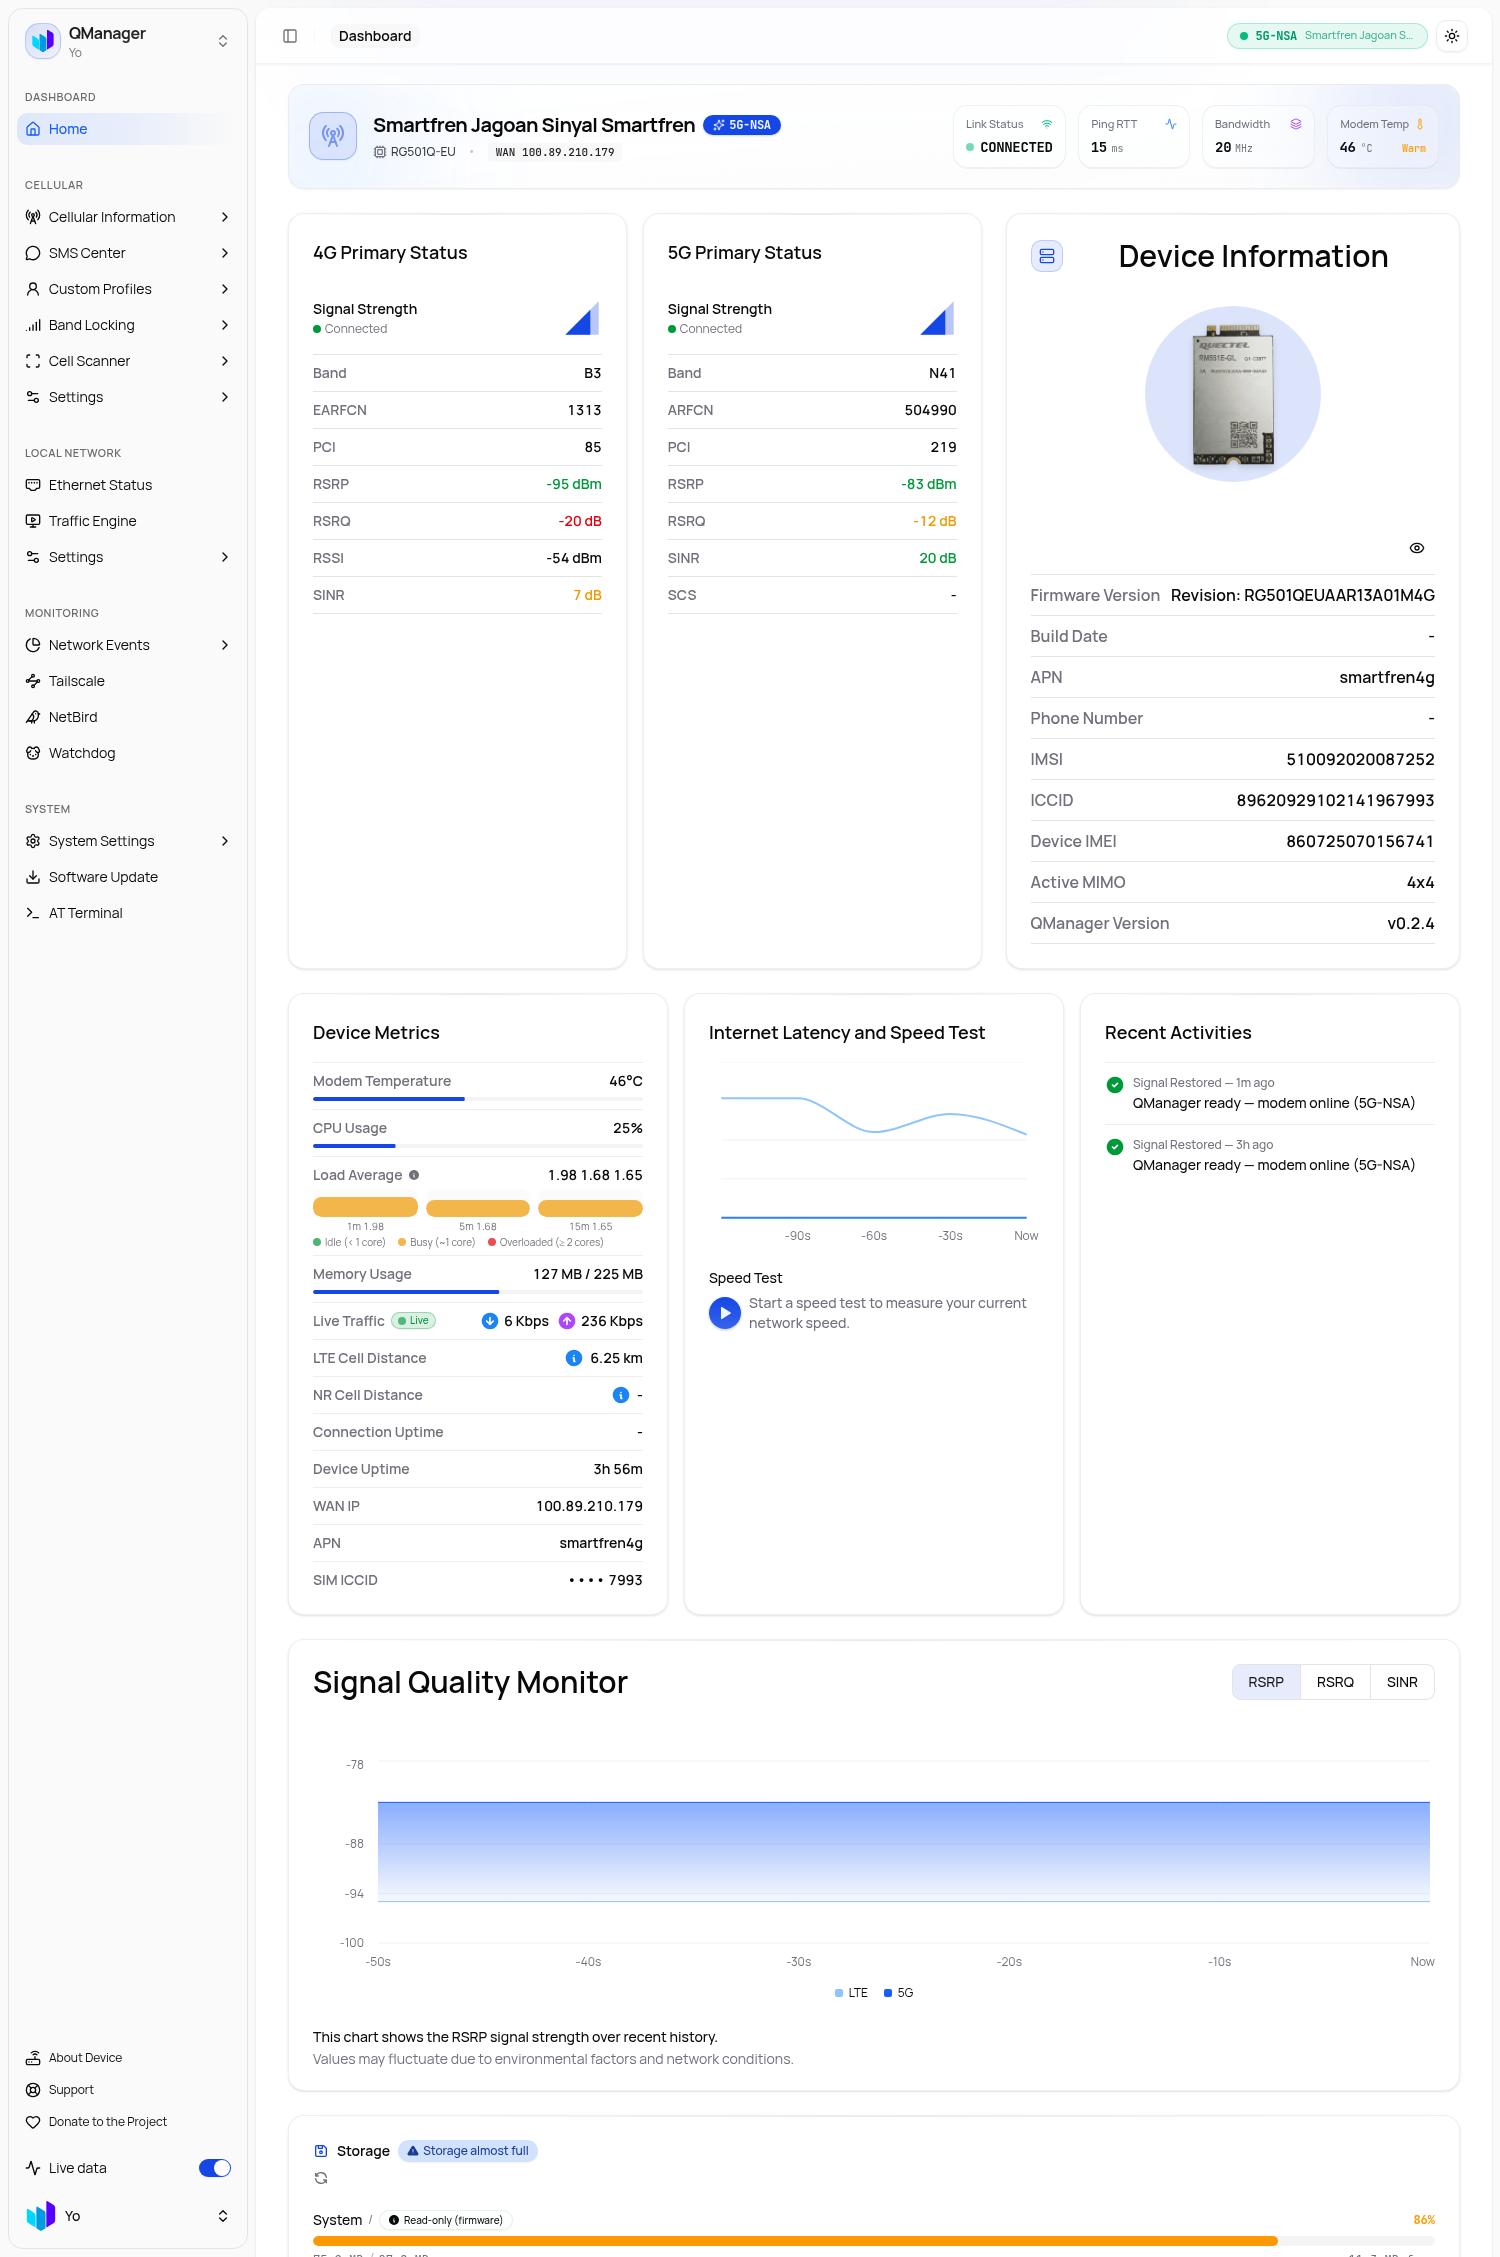
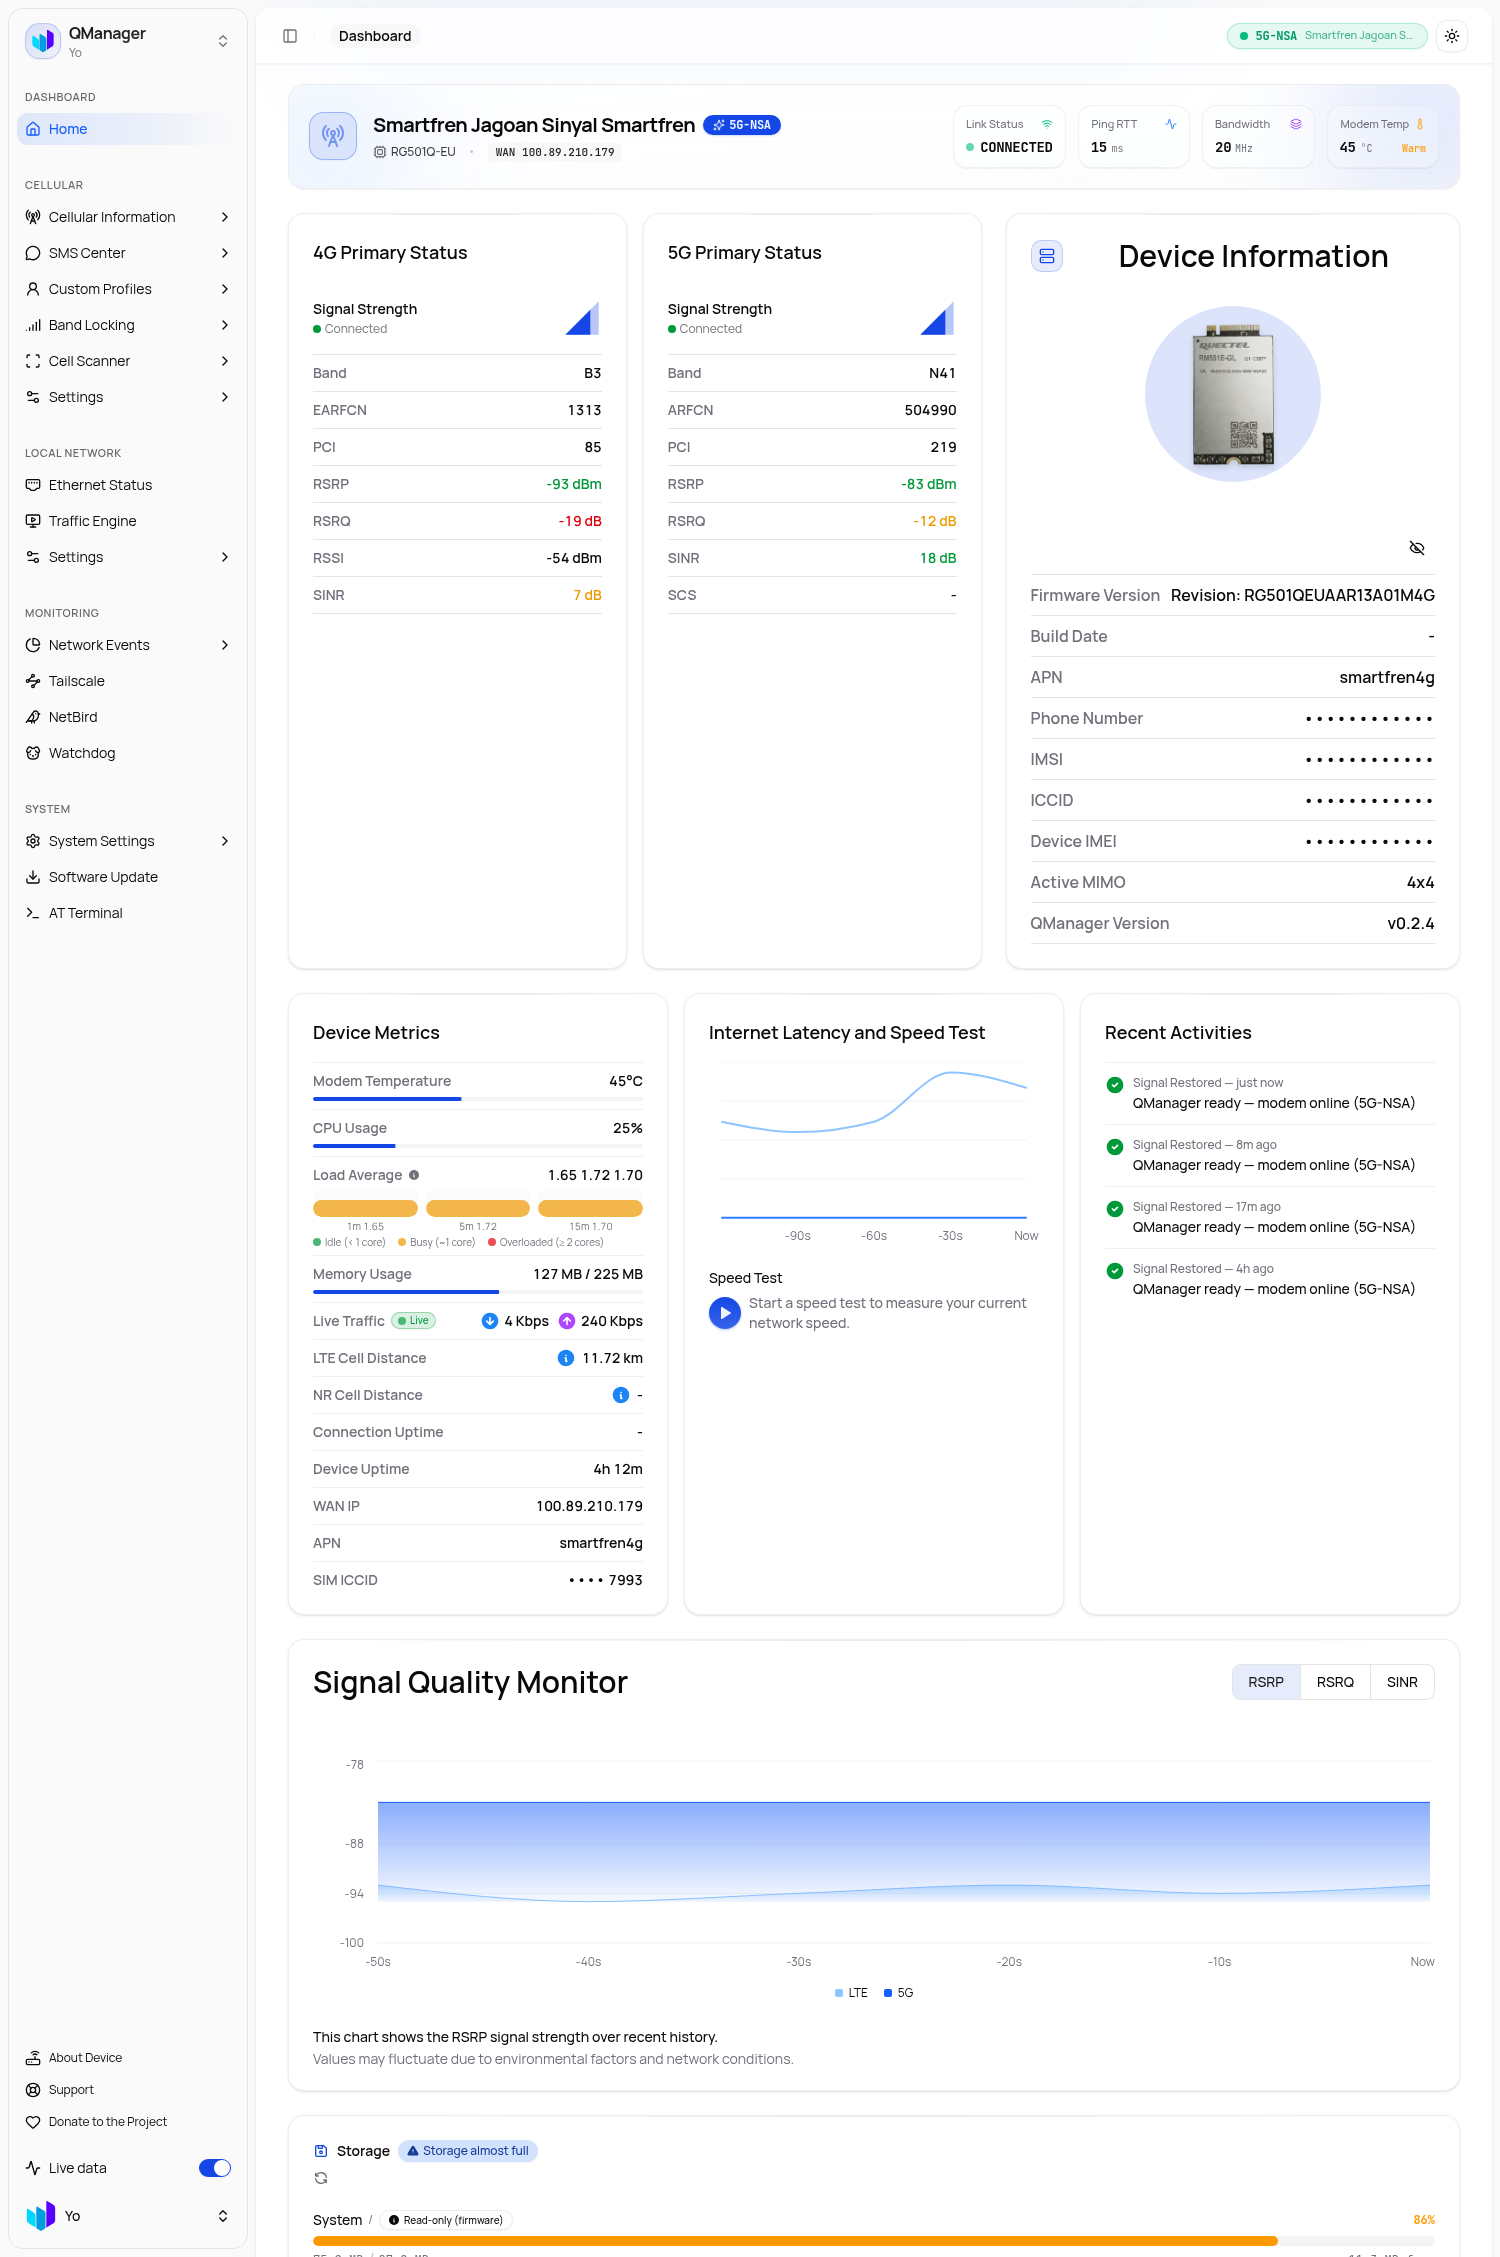
fix(ui): privacy - dashboard masked default (IMEI/IMSI/ICCID) + update screenshots; release v1.0.2

Changed region(s): [[0.736, 0.5272, 0.8587, 0.5893], [0.8587, 0.3101, 0.9507, 0.3722], [0.368, 0.5893, 0.3987, 0.6203]]

diff --git a/src/components/dashboard/device-status.tsx b/src/components/dashboard/device-status.tsx
@@ -49,7 +49,7 @@ const DeviceStatusComponent = ({
   isLoading,
 }: DeviceStatusComponentProps) => {
   const { t } = useTranslation("dashboard");
-  const [hidePrivate, setHidePrivate] = useState(false);
+  const [hidePrivate, setHidePrivate] = useState(true);
 
   const rows = [
     { label: t("device_status.firmware_version"), value: data?.firmware || "-" },

diff --git a/backend/pkg/api/handlers.go b/backend/pkg/api/handlers.go
@@ -433,7 +433,7 @@ func (s *Server) HandleAboutDevice(w http.ResponseWriter, r *http.Request) {
 		"system": map[string]interface{}{
 			"hostname":         hostname,
 			"kernel_version":   "Linux Host",
-			"openwrt_version":  "v1.0.1 Engine",
+			"openwrt_version":  "v1.0.2 Engine",
 			"qmanager_version": qmanagerVersion,
 		},
 	})
@@ -788,8 +788,8 @@ func (s *Server) HandleSoftwareUpdate(w http.ResponseWriter, r *http.Request) {
 	}
 	_ = json.NewEncoder(w).Encode(map[string]interface{}{
 		"success":          true,
-		"current_version":  "v1.0.1",
-		"latest_version":   "v1.0.1",
+		"current_version":  "v1.0.2",
+		"latest_version":   "v1.0.2",
 		"update_available": false,
 	})
 }

diff --git a/backend/pkg/api/missing_endpoints.go b/backend/pkg/api/missing_endpoints.go
@@ -108,7 +108,7 @@ func readQmJSON(path string) map[string]any {
 }
 
 func deviceMetaFromStatus() (model, firmware, imei, qmVersion string) {
-	model, firmware, imei, qmVersion = "QManager", "-", "-", "v1.0.1"
+	model, firmware, imei, qmVersion = "QManager", "-", "-", "v1.0.2"
 	if data, err := os.ReadFile("/tmp/qmanager_status.json"); err == nil {
 		var status map[string]any
 		if json.Unmarshal(data, &status) == nil {
